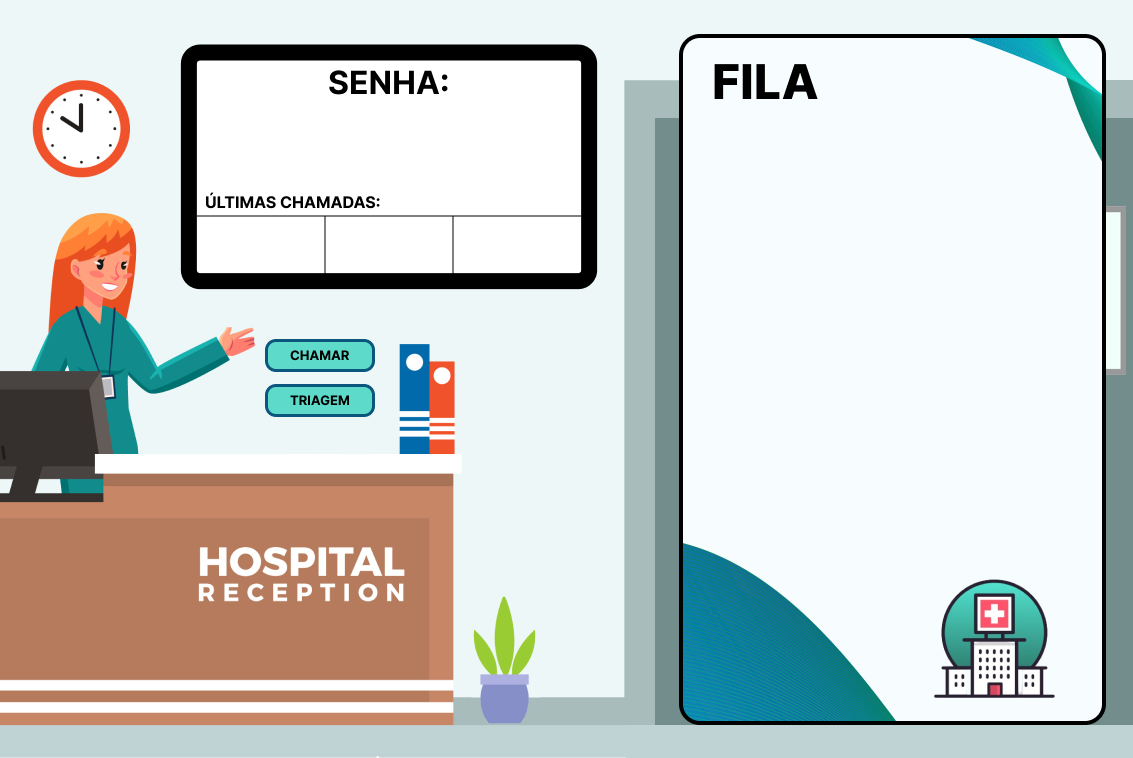
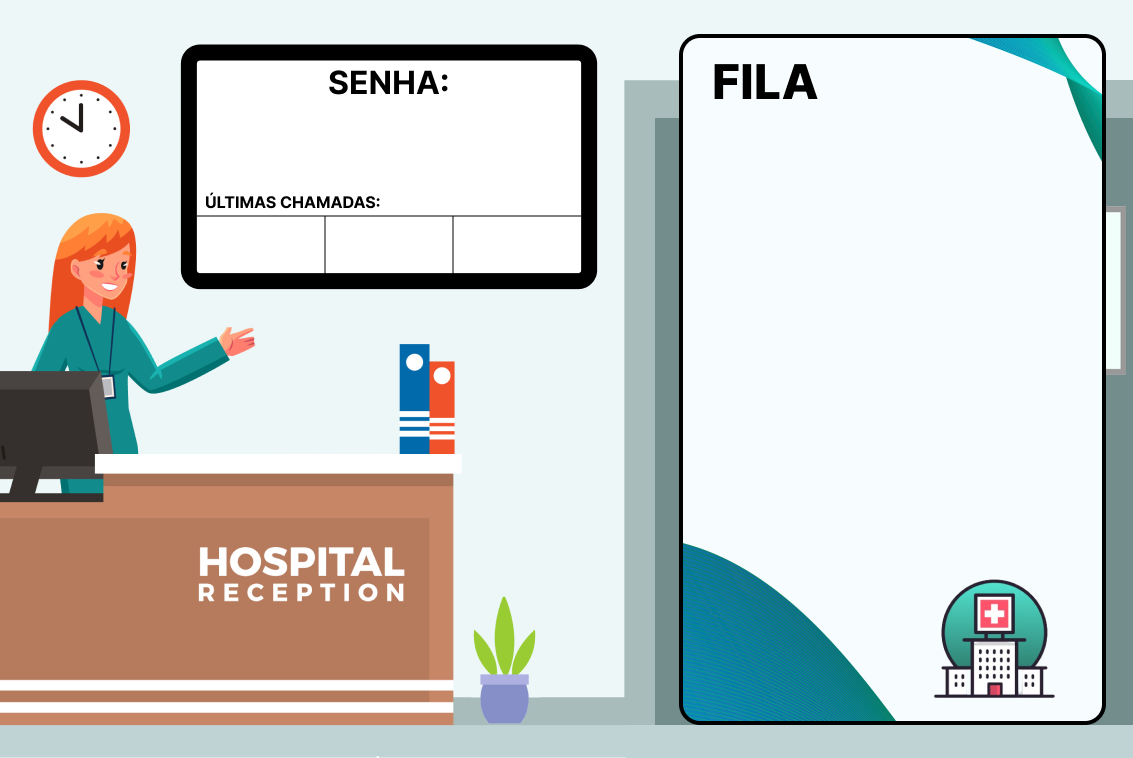
update

Changed region(s): [[0.2162, 0.4248, 0.3398, 0.5765]]

diff --git a/FilaDeEspera/src/main/java/Package/TelaPrincipal.java b/FilaDeEspera/src/main/java/Package/TelaPrincipal.java
@@ -48,6 +48,7 @@ public class TelaPrincipal extends javax.swing.JFrame {
         txtTemperatura.setBackground(new Color(0,0,0,0));
         btnRegistrar.setBackground(new Color(0,0,0,0));
         btnVoltar.setBackground(new Color(0,0,0,0));
+        btnDoc.setBackground(new Color(0,0,0,0));
         txtSenha1.setText("");
         txtSenha2.setText("");
         txtSenha3.setText("");
@@ -67,6 +68,7 @@ public class TelaPrincipal extends javax.swing.JFrame {
     private void initComponents() {
 
         TelaPrinci = new javax.swing.JPanel();
+        btnDoc = new javax.swing.JButton();
         btnTriagem = new javax.swing.JButton();
         btnChamar = new javax.swing.JButton();
         PainelComScroll = new javax.swing.JScrollPane();
@@ -104,6 +106,23 @@ public class TelaPrincipal extends javax.swing.JFrame {
 
         TelaPrinci.setLayout(new org.netbeans.lib.awtextra.AbsoluteLayout());
 
+        btnDoc.setIcon(new javax.swing.ImageIcon(getClass().getResource("/Imagens/btnDoc.png"))); // NOI18N
+        btnDoc.setCursor(new java.awt.Cursor(java.awt.Cursor.HAND_CURSOR));
+        btnDoc.addMouseListener(new java.awt.event.MouseAdapter() {
+            public void mouseEntered(java.awt.event.MouseEvent evt) {
+                btnDocMouseEntered(evt);
+            }
+            public void mouseExited(java.awt.event.MouseEvent evt) {
+                btnDocMouseExited(evt);
+            }
+        });
+        btnDoc.addActionListener(new java.awt.event.ActionListener() {
+            public void actionPerformed(java.awt.event.ActionEvent evt) {
+                btnDocActionPerformed(evt);
+            }
+        });
+        TelaPrinci.add(btnDoc, new org.netbeans.lib.awtextra.AbsoluteConstraints(260, 400, 120, 40));
+
         btnTriagem.setIcon(new javax.swing.ImageIcon(getClass().getResource("/Imagens/btnTriagem.png"))); // NOI18N
         btnTriagem.setCursor(new java.awt.Cursor(java.awt.Cursor.HAND_CURSOR));
         btnTriagem.addMouseListener(new java.awt.event.MouseAdapter() {
@@ -119,7 +138,7 @@ public class TelaPrincipal extends javax.swing.JFrame {
                 btnTriagemActionPerformed(evt);
             }
         });
-        TelaPrinci.add(btnTriagem, new org.netbeans.lib.awtextra.AbsoluteConstraints(260, 380, 120, 40));
+        TelaPrinci.add(btnTriagem, new org.netbeans.lib.awtextra.AbsoluteConstraints(260, 350, 120, 40));
 
         btnChamar.setIcon(new javax.swing.ImageIcon(getClass().getResource("/Imagens/btnChamar.png"))); // NOI18N
         btnChamar.setCursor(new java.awt.Cursor(java.awt.Cursor.HAND_CURSOR));
@@ -136,7 +155,7 @@ public class TelaPrincipal extends javax.swing.JFrame {
                 btnChamarActionPerformed(evt);
             }
         });
-        TelaPrinci.add(btnChamar, new org.netbeans.lib.awtextra.AbsoluteConstraints(260, 335, 120, 40));
+        TelaPrinci.add(btnChamar, new org.netbeans.lib.awtextra.AbsoluteConstraints(260, 300, 120, 40));
 
         PainelComScroll.setBorder(null);
 
@@ -407,7 +426,7 @@ public class TelaPrincipal extends javax.swing.JFrame {
         String sintomaMedio = "";
         String sintomaGrave = "";
         String sintomaGravissimo = "";
-        String sintoma = "";
+        String sintoma = "Sem sofrimento agudo";
         DateTimeFormatter formatter = DateTimeFormatter.ofPattern("dd/MM/yyyy");
         if(txtNascimento.getText().equals("  /  /    ")){
             JOptionPane.showMessageDialog(null, "Data inválida");
@@ -666,6 +685,18 @@ public class TelaPrincipal extends javax.swing.JFrame {
          btnTriagem.setIcon(new javax.swing.ImageIcon(getClass().getResource("/Imagens/btnTriagem.png")));
     }//GEN-LAST:event_btnTriagemMouseExited
 
+    private void btnDocActionPerformed(java.awt.event.ActionEvent evt) {//GEN-FIRST:event_btnDocActionPerformed
+        // TODO add your handling code here:
+    }//GEN-LAST:event_btnDocActionPerformed
+
+    private void btnDocMouseEntered(java.awt.event.MouseEvent evt) {//GEN-FIRST:event_btnDocMouseEntered
+        btnDoc.setIcon(new javax.swing.ImageIcon(getClass().getResource("/Imagens/btnDoc2.png")));
+    }//GEN-LAST:event_btnDocMouseEntered
+
+    private void btnDocMouseExited(java.awt.event.MouseEvent evt) {//GEN-FIRST:event_btnDocMouseExited
+        btnDoc.setIcon(new javax.swing.ImageIcon(getClass().getResource("/Imagens/btnDoc.png")));
+    }//GEN-LAST:event_btnDocMouseExited
+
     /**
      * @param args the command line arguments
      */
@@ -707,6 +738,7 @@ public class TelaPrincipal extends javax.swing.JFrame {
     private javax.swing.JPanel TelaPrinci;
     private javax.swing.JPanel TelaTriag;
     private javax.swing.JButton btnChamar;
+    private javax.swing.JButton btnDoc;
     private javax.swing.JButton btnRegistrar;
     private javax.swing.JButton btnTriagem;
     private javax.swing.JButton btnVoltar;
